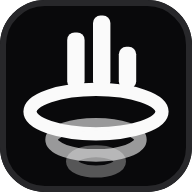
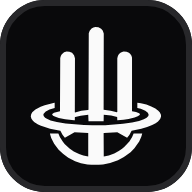
Judul hero jadi "Jadi Trader" + kata berputar, lambang baru
JUDUL
Dulu delapan kata bergantian di satu tempat, "Jadi Trader" salah satunya --
terlihat sebentar lalu hilang selama tujuh kata berikutnya. Artinya nama
produknya absen dari layar hampir sepanjang waktu orang menatap hero-nya,
dan pengunjung yang mendarat di detik keempat tidak pernah melihatnya sama
sekali. Sekarang ia DIAM di kiri dan sisanya berputar di sebelahnya.

Komponennya dari pemilik; ungu diganti biru sesuai permintaan, dinaikkan
terangnya (sky-300 -> blue-600, bukan violet-400 -> violet-800) karena
tempatnya di atas foto gunung, bukan latar putih.

Impornya dari `framer-motion`, BUKAN `motion/react` seperti di berkas asli.
Keduanya pustaka yang sama dengan nama berbeda, dan framer-motion 13.1.1
sudah terpasang di proyek ini -- LazyMotion, domAnimation, m, dan
AnimatePresence diperiksa satu per satu sebelum diputuskan. Memasang
`motion` berarti dua pustaka animasi hidup berdampingan di satu bundel.

`initial={false}` DITAMBAHKAN, dan itu bukan penghematan melainkan
pengaman. Tanpa ia, kata pertama masuk lewat animasi width 0 -> auto yang
digerakkan requestAnimationFrame; selama rAF belum berdetak elemennya diam
di `width: 0px; opacity: 0` dan judulnya terbaca "Jadi Trader" dengan
kursor berkedip TANPA APA-APA di sebelahnya. Terlihat sendiri saat
diperiksa: 0 frame rAF per detik, bertahan opacity 0 selama sebelas detik
walau timernya terus berdetak.

Ukuran fontnya turun 10vw -> 8vw. Judulnya kini dua kata, bukan satu:
[…]

Changed region(s): [[0.0938, 0.0625, 0.9062, 0.9375]]

diff --git a/Template V3/src/components/ui/text-loop.tsx b/Template V3/src/components/ui/text-loop.tsx
@@ -1,0 +1,151 @@
+import { useEffect, useState } from 'react';
+import {
+  LazyMotion, domAnimation, m, AnimatePresence, type Transition,
+} from 'framer-motion';
+import { cn } from '@/lib/utils';
+
+/* ══════════════════════════════════════════════════════════════════════
+   SATU KATA TETAP, SISANYA BERGANTI
+   ══════════════════════════════════════════════════════════════════════
+   Kata yang tetap ditulis penuh di kiri; kata di kanannya melebar dari nol,
+   diam sebentar, lalu menyempit lagi sambil kata berikutnya melebar. Sebuah
+   garis tegak berkedip di ujungnya seperti kursor yang sedang mengetik.
+
+   Diadaptasi dari komponen yang dikirim pemilik. Yang diubah, dan
+   alasannya:
+
+     · `"use client"` dibuang — arahan Next.js, tidak berarti apa-apa di
+       Vite.
+
+     · Impornya dari `framer-motion`, BUKAN `motion/react`. Kedua nama itu
+       pustaka yang sama (`motion` nama barunya), dan proyek ini sudah
+       memasang framer-motion 13.1.1 yang mengekspor LazyMotion,
+       domAnimation, m, dan AnimatePresence — sudah diperiksa satu per
+       satu. Memasang `motion` juga berarti dua pustaka animasi hidup
+       berdampingan di satu bundel: puluhan kilobita untuk kode yang sudah
+       ada, dan dua sumber kebenaran untuk hal yang sama.
+
+     · Ungu jadi BIRU, permintaan pemilik. Warnanya dinaikkan terangnya
+       (300–600, bukan 400–800) karena tempat pertamanya dipakai adalah
+       judul di atas FOTO gunung, bukan latar putih. Biru-800 di atas foto
+       senja praktis tidak terbaca.
+
+     · `text-4xl md:text-7xl` DIPERTAHANKAN sebagai bawaan, tapi ia memang
+       dimaksudkan untuk ditimpa: `cn` di proyek ini memakai tailwind-merge,
+       jadi pemanggil yang mengirim ukurannya sendiri akan menang. Di hero,
+       ukurannya datang dari `.parallax__title`.
+   ══════════════════════════════════════════════════════════════════════ */
+
+interface TextLoopProps {
+  staticText?: string;
+  rotatingTexts?: string[];
+  className?: string;
+  interval?: number;
+  transition?: Transition;
+  staticTextClassName?: string;
+  rotatingTextClassName?: string;
+  backgroundClassName?: string;
+  cursorClassName?: string;
+}
+
+export default function TextLoop({
+  staticText = 'Jadi Trader',
+  rotatingTexts = ['Profitable', 'Charting', 'Screening'],
+  className,
+  interval = 3000,
+  transition = { duration: 0.8, ease: 'easeInOut' },
+  staticTextClassName,
+  rotatingTextClassName,
+  backgroundClassName,
+  cursorClassName,
+}: TextLoopProps) {
+  const [index, setIndex] = useState(0);
+
+  useEffect(() => {
+    const timer = setInterval(() => {
+      setIndex((prev) => (prev + 1) % rotatingTexts.length);
+    }, interval);
+    return () => clearInterval(timer);
+  }, [rotatingTexts.length, interval]);
+
+  return (
+    <LazyMotion features={domAnimation}>
+      <div
+        className={cn(
+          'flex flex-row items-center justify-start w-fit text-4xl md:text-7xl font-medium tracking-tight',
+          className,
+        )}
+      >
+        <span className={cn('mr-3 whitespace-nowrap', staticTextClassName)}>
+          {staticText}
+        </span>
+        <div className="relative flex items-center">
+          {/* ── `initial={false}` BUKAN PENGHEMATAN, TAPI PENGAMAN ────────
+              Tanpa ini kata pertama masuk lewat animasi width 0 → auto,
+              dan animasi itu digerakkan requestAnimationFrame. Selama rAF
+              belum berdetak — tab dibuka di latar belakang, pengguna pindah
+              tab saat halaman memuat, peramban menahan frame untuk halaman
+              yang tidak terlihat — elemennya diam di keadaan awalnya:
+              `width: 0px; opacity: 0`.
+
+              Artinya judulnya terbaca "Jadi Trader" dengan kursor berkedip
+              dan TIDAK ADA APA-APA di sebelahnya. Sudah terlihat sendiri
+              waktu diperiksa: 0 frame rAF per detik, elemennya bertahan di
+              opacity 0 selama sebelas detik walau timernya terus berdetak.
+
+              `initial={false}` membuat anak yang sudah ada saat pertama
+              dipasang langsung berada di keadaan akhirnya. Pergantian kata
+              berikutnya tetap beranimasi seperti biasa — dan kalau rAF
+              membeku di tengah jalan, yang tertinggal di layar kata LAMA
+              yang masih terlihat, bukan ruang kosong. Kedua kegagalannya
+              jatuh ke sisi yang benar. */}
+          <AnimatePresence mode="wait" initial={false}>
+            <m.div
+              key={rotatingTexts[index]}
+              initial={{ width: 0, opacity: 0 }}
+              animate={{ width: 'auto', opacity: 1 }}
+              exit={{ width: 0, opacity: 0 }}
+              transition={transition}
+              className="overflow-hidden whitespace-nowrap relative"
+            >
+              {/* Kotak gradien di belakang katanya. */}
+              <div
+                className={cn(
+                  'absolute inset-0',
+                  'bg-gradient-to-r from-transparent via-blue-300/20 to-blue-400/30',
+                  'dark:from-transparent dark:via-blue-950/30 dark:to-blue-900/50',
+                  backgroundClassName,
+                )}
+              />
+
+              <span
+                className={cn(
+                  'relative bg-clip-text text-transparent',
+                  'bg-gradient-to-r from-sky-300 to-blue-600',
+                  'dark:from-sky-300 dark:to-blue-500 pr-1',
+                  rotatingTextClassName,
+                )}
+              >
+                {rotatingTexts[index]}
+              </span>
+            </m.div>
+          </AnimatePresence>
+
+          {/* Garis kursor. */}
+          <m.div
+            className={cn(
+              'w-[3px] md:w-[4px] bg-blue-400 h-[1.10em] sm:h-[1em]',
+              cursorClassName,
+            )}
+            animate={{ opacity: [1, 0.5] }}
+            transition={{
+              duration: 0.8,
+              repeat: Infinity,
+              repeatType: 'reverse',
+            }}
+          />
+        </div>
+      </div>
+    </LazyMotion>
+  );
+}

diff --git a/Template V3/src/components/logo-jt.tsx b/Template V3/src/components/logo-jt.tsx
@@ -1,57 +1,39 @@
 /* ════════════════════════════════════════════════════════════════════════
    LAMBANG JADI TRADER
    ════════════════════════════════════════════════════════════════════════
-   SATU lambang untuk sidebar DAN favicon. Sebelumnya keduanya berbeda:
-   sidebar memakai lilin yang menembus kanal sejajar, sementara
-   `public/brand/logo-ikon-512.png` memakai tiga lilin dengan garis tren
-   emas. Dua lambang untuk satu produk berarti tidak ada satu pun yang
-   dikenali orang — dan yang mereka lihat paling sering, tab peramban,
-   justru dulu kosong sama sekali.
+   SATU lambang untuk sidebar, halaman depan, DAN favicon. Dua lambang untuk
+   satu produk berarti tidak ada satu pun yang dikenali orang.
 
-   Bentuknya: tiga batang naik dari pusaran tiga cincin yang mengerucut.
-   Berangkat dari gagasan yang dipilih pemilik 17 Agustus 2026.
+   Bentuknya: tiga lilin naik dari dalam sebuah mangkuk bercincin. Dipilih
+   pemilik 1 September 2026, menggantikan gambar tiga batang di atas tiga
+   cincin mengerucut.
 
-   ── CINCIN UTUH, JANGAN PERNAH BUSUR SETENGAH ─────────────────────────
-   Ini bukan pilihan gaya, dan sudah dibuktikan sekali: waktu cincinnya
-   digambar sebagai busur yang melengkung ke bawah, lambangnya terbaca
-   sebagai WAJAH TERSENYUM — busur jadi mulut, tiga batang di atasnya jadi
-   mata. Sekali terlihat tidak bisa dilupakan. Elipsis penuh menutup
-   kemungkinan itu, dan kebetulan juga lebih benar: yang digambar memang
-   cincin dalam perspektif, bukan senyum bertumpuk.
+   ── DITELUSUR DARI BERKASNYA, BUKAN DIGAMBAR ULANG ────────────────────
+   Jalur di bawah hasil penelusuran piksel berkas aslinya (Moore-neighbor
+   + Douglas-Peucker, toleransi 1,4 px), lalu diperiksa balik dengan
+   merasterkannya lagi dan membandingkannya ke berkas asli: 99,16% piksel
+   bertumpang tepat, selisihnya cuma tepi antialias.
 
-   Opasitas menurun ke bawah (1 / .6 / .32) yang membuatnya terbaca
-   BERPUTAR, bukan sekadar tiga garis bertumpuk.
+   Itu penting karena bentuk ini punya perpotongan cincin-dan-mangkuk yang
+   tidak bisa ditebak dari ukuran batangnya saja. Menggambar ulang dengan
+   mata berarti mengarang, dan lambang yang dikarang tidak akan pernah sama
+   persis dengan yang dipilih pemiliknya.
 
-   ── KENAPA DIGAMBAR TANGAN, BUKAN <img src="favicon.svg"> ─────────────
+   Karena itu JANGAN menyunting angka-angka di jalur ini dengan tangan.
+   Kalau lambangnya berubah, telusur ulang dari berkas gambarnya.
+
+   ── KENAPA JALUR, BUKAN <img src="logo.png"> ──────────────────────────
    `currentColor` — lambangnya ikut warna teks di sekitarnya, jadi tidak
    perlu versi terang/gelap terpisah, dan sidebar bisa meredupkannya saat
-   hover tanpa memuat berkas kedua. Sumber bentuk yang sama ada di
+   hover tanpa memuat berkas kedua. Bentuk yang sama ada di
    `public/favicon.svg`; kalau salah satu diubah, ubah keduanya.
-
-   viewBox dipangkas ke batas gambarnya (bukan 0 0 32 32) supaya lambangnya
-   MEMENUHI kotak 19 px di sidebar. Dengan viewBox penuh ia menyisakan
-   margin kosong di keempat sisi dan terlihat lebih kecil daripada ikon
-   lucide di sebelahnya.
    ════════════════════════════════════════════════════════════════════════ */
 
 export function LogoJT({ className = 'size-[18px]' }: { className?: string }) {
   return (
-    <svg viewBox="2.5 1.6 27 27" fill="none" className={className}
+    <svg viewBox="0 0 983 1040" className={className}
          role="img" aria-label="Jadi Trader Tools">
-      {/* Tiga batang naik dari dalam pusaran. */}
-      <g fill="currentColor">
-        <rect x="11.2" y="5.4" width="2.9" height="9.4" rx="1.25" />
-        <rect x="15.5" y="2.6" width="2.9" height="12.2" rx="1.25" />
-        <rect x="19.8" y="7.8" width="2.9" height="7" rx="1.25" />
-      </g>
-
-      {/* Tiga cincin mengerucut. Lihat catatan di kepala berkas sebelum
-          mengubah bentuknya jadi busur. */}
-      <g fill="none" stroke="currentColor">
-        <ellipse cx="16" cy="18.6" rx="11" ry="3.7" strokeWidth="2.2" />
-        <ellipse cx="16" cy="23.3" rx="7.4" ry="2.6" strokeWidth="2.1" strokeOpacity=".6" />
-        <ellipse cx="16" cy="26.9" rx="4" ry="1.7" strokeWidth="2" strokeOpacity=".32" />
-      </g>
+      <path fill="currentColor" fillRule="evenodd" d="M487 0L510 2L530 13L542 27L550 49L549 624L602 631L649 643L652 641L652 235L657 216L665 204L676 194L688 188L700 185L722 186L740 194L750 203L759 217L763 231L763 634L793 641L817 650L822 655L822 661L818 666L806 673L782 682L737 693L699 699L652 703L651 679L606 667L550 661L549 710L435 710L433 661L376 668L335 679L332 681L332 702L326 703L259 695L211 685L181 675L168 668L161 660L162 655L175 646L220 634L222 234L227 216L234 205L251 191L270 185L291 186L311 195L326 212L333 235L332 643L334 644L381 632L430 626L435 623L437 47L444 28L458 12L472 4L487 0ZM178 570L180 570L180 611L141 622L113 636L97 653L95 659L97 670L108 683L118 690L149 704L196 716L262 727L401 739L462 741L561 740L695 730L763 720L816 709L852 696L873 684L886 670L888 659L882 646L863 631L829 617L803 611L803 570L830 574L871 585L908 599L939 615L961 631L973 644L981 661L982 675L975 694L959 712L941 725L915 739L877 754L833 767L760 782L743 814L726 835L652 793L551 798L549 800L550 976L588 968L629 953L663 935L688 918L704 905L743 863L763 831L775 803L840 803L833 828L817 862L781 913L752 943L702 980L657 1004L598 1025L544 1036L512 1039L457 1039L427 1036L378 1026L334 1011L283 985L245 958L210 925L176 880L154 837L144 803L208 803L220 830L242 865L255 881L292 916L324 938L364 958L396 969L433 976L433 798L330 793L257 835L239 812L223 782L145 767L77 745L55 735L28 718L16 707L5 692L0 675L3 657L11 643L35 622L74 601L105 589L178 570Z" />
     </svg>
   );
 }

diff --git a/Template V3/src/components/ui/parallax-scrolling.tsx b/Template V3/src/components/ui/parallax-scrolling.tsx
@@ -7,13 +7,21 @@ import { ScrollTrigger } from 'gsap/ScrollTrigger';
 import Lenis from '@studio-freight/lenis';
 import { Moon, Sun } from 'lucide-react';
 import './parallax-scrolling.css';
-import { TeksMorph } from '@/components/ui/teks-morph';
+import TextLoop from '@/components/ui/text-loop';
 
-/* Delapan kata, berputar terus. Yang pertama nama produknya — ia yang
-   terlihat saat animasinya belum mulai, dan ia yang harus dikenali orang
-   yang baru mendarat di halaman ini. */
-const KATA_JUDUL = [
-  'Jadi Trader', 'Profitable', 'Up Skill', 'Jurnaling',
+/* "Jadi Trader" sekarang DIAM di kiri, tidak ikut berputar.
+
+   Dulu ia kata pertama dalam antrean yang sama — terlihat sebentar, lalu
+   hilang selama tujuh kata berikutnya. Artinya nama produknya absen dari
+   layar hampir sepanjang waktu orang menatap hero-nya, dan pengunjung yang
+   mendarat di detik keempat tidak pernah melihatnya sama sekali.
+
+   Sisanya menyebut apa yang BISA DILAKUKAN di sini, bukan sifat yang
+   diklaim. "Profitable" satu-satunya yang berupa hasil, dan ia sengaja
+   ditaruh pertama — tepat di sebelah nama produknya, supaya terbaca
+   sebagai tujuan, bukan janji. */
+const KATA_PUTAR = [
+  'Profitable', 'Up Skill', 'Jurnaling',
   'Charting', 'Screening', 'Copying', 'Executing',
 ];
 import { LogoJT } from '@/components/logo-jt';
@@ -168,12 +176,28 @@ export function ParallaxComponent() {
                  {...({ fetchpriority: 'low' } as Record<string, string>)}
                  width="800" data-parallax-layer="2" alt="" className="parallax__layer-img parallax__layer-malam" />
             <div data-parallax-layer="3" className="parallax__layer-title">
-              {/* Kata-katanya menyebut apa yang BISA DILAKUKAN di sini,
-                  bukan sifat yang diklaim. "Profitable" satu-satunya yang
-                  berupa hasil, dan ia sengaja ditaruh kedua — sesudah nama
-                  produknya, supaya terbaca sebagai tujuan, bukan janji. */}
+              {/* -- KENAPA UKURANNYA DITIMPA DUA KALI --------------------
+                  TextLoop membawa `text-4xl md:text-7xl` sebagai bawaan.
+                  `cn`-nya memakai tailwind-merge, jadi satu kelas ukuran
+                  dari sini cukup untuk mengalahkan `text-4xl` — TAPI TIDAK
+                  `md:text-7xl`: tailwind-merge cuma mendamaikan kelas dalam
+                  varian yang sama, dan `md:` varian yang berbeda. Tanpa
+                  baris `md:` di bawah, judulnya benar di ponsel lalu
+                  melompat ke 72px begitu layarnya 768px.
+
+                  Ukurannya sendiri datang dari `.parallax__title`.
+
+                  Menumpuk ke bawah di ponsel, sebaris di layar lebar:
+                  "Jadi Trader Profitable" 22 karakter, dan pada lebar 375px
+                  ia lewat tepi layar berapa pun ukuran fontnya diturunkan
+                  sebelum jadi terlalu kecil untuk sebuah hero. */}
               <h2 className="parallax__title">
-                <TeksMorph teks={KATA_JUDUL} />
+                <TextLoop
+                  staticText="Jadi Trader"
+                  rotatingTexts={KATA_PUTAR}
+                  className="w-full flex-col justify-center text-[length:inherit] font-[inherit] tracking-[inherit] sm:flex-row md:text-[length:inherit]"
+                  staticTextClassName="mr-0 sm:mr-3"
+                />
               </h2>
             </div>
             <img src="/parallax/depan.webp" loading="eager" width="800" data-parallax-layer="4" alt="" className="parallax__layer-img" />

diff --git a/Template V3/src/components/ui/parallax-scrolling.css b/Template V3/src/components/ui/parallax-scrolling.css
@@ -87,22 +87,37 @@
 
 .parallax__title {
   margin: 0;
-  /* Diturunkan dari 13vw: "Jadi Trader" tiga huruf lebih panjang
-     daripada kata sebelumnya dan pada 13vw ia melewati tepi layar
-     375 px. */
-  font-size: clamp(2.25rem, 10vw, 9rem);
+  /* Diturunkan LAGI dari 10vw, kali ini karena judulnya berubah bentuk:
+     dulu satu kata bergantian, sekarang "Jadi Trader" + satu kata yang
+     berganti. Pasangan terpanjangnya "Jadi Trader Profitable" — 22
+     karakter, dua kali lipat kata tunggal terpanjang yang dulu ada di
+     sini. Pada 10vw ia lewat tepi layar bahkan di monitor 1280px.
+
+     8vw, bukan 8,5: titik paling sempit justru 640px -- lebar tepat saat
+     judulnya berhenti menumpuk dan jadi satu baris. Di sana 8,5vw menyisakan
+     10% saja, dan font cadangan terukur 3% lebih lebar daripada IBM Plex
+     Sans. Sisa 7% bukan margin, itu kebetulan. */
+  font-size: clamp(2.5rem, 8vw, 7rem);
   line-height: 0.95;
   font-weight: 600;
   letter-spacing: -0.03em;
   text-align: center;
   color: #fff;
 
-  /* Rumah dua lapis teks yang bertumpuk. Tingginya dikunci satu baris —
-     tanpa itu judulnya setinggi nol (kedua anaknya absolut) dan lapisan
-     parallax di bawahnya naik menutupinya. */
+  /* Tingginya IKUT ISINYA lagi.
+
+     Dulu dikunci `1em` karena TeksMorph menumpuk dua lapis teks yang
+     keduanya `absolute` — isinya nol, jadi tingginya harus dipaksa. Tidak
+     ada satu pun anak TextLoop yang absolut, jadi paksaan itu sekarang
+     justru merusak: di ponsel judulnya menumpuk jadi dua baris, dan kotak
+     setinggi satu baris memotong baris keduanya.
+
+     Aman dipasang auto karena `.parallax__layer-title` sudah
+     `align-items: center` — judulnya tetap di tengah berapa pun
+     tingginya. */
   position: relative;
   display: block;
-  height: 1em;
+  height: auto;
   /* LEBAR PENUH, dan ini bukan hiasan.
 
      Judulnya anak sebuah flex container, jadi lebarnya mengikuti isinya.

diff --git a/Template V3/src/components/ui/header-3.tsx b/Template V3/src/components/ui/header-3.tsx
@@ -16,6 +16,7 @@ import {
   NavigationMenuTrigger,
 } from '@/components/ui/navigation-menu';
 import { cn } from '@/lib/utils';
+import { LogoJT } from '@/components/logo-jt';
 
 /* ════════════════════════════════════════════════════════════════════════
    HEADER halaman Pendaratan — struktur mengikuti header-3 (sshahaider)
@@ -88,7 +89,18 @@ export function Header() {
       <nav className="mx-auto flex h-14 w-full max-w-5xl items-center justify-between px-4">
         <div className="flex items-center gap-5">
           <a href="/pendaratan" className="hover:bg-accent flex items-center gap-2 rounded-md p-2">
-            <img src="brand/logo-ikon-256.png" alt="" className="size-5 rounded" />
+            {/* -- LOGO DIGAMBAR, BUKAN DIMUAT ------------------------------
+                Dulu <img src="brand/logo-ikon-256.png"> -- lambang LAMA
+                (lilin dengan garis tren emas), berbeda dari yang dipakai
+                sidebar dan favicon. Halaman depan justru satu-satunya
+                tempat orang bertemu merek ini pertama kali, dan di situlah
+                ia memakai lambang yang tidak dipakai di mana pun lagi.
+
+                Sumbernya juga relatif tanpa garis miring awal, jadi ia
+                pecah di rute mana pun selain akar. Kebetulan header ini
+                cuma dipasang di halaman pendaratan, jadi tidak pernah
+                terlihat -- tapi ia menunggu. */}
+            <LogoJT className="size-5 shrink-0 text-foreground" />
             <span className="text-sm font-semibold tracking-tight text-foreground">
               Jadi Trader <span className="text-muted-foreground font-normal">Tools</span>
             </span>
